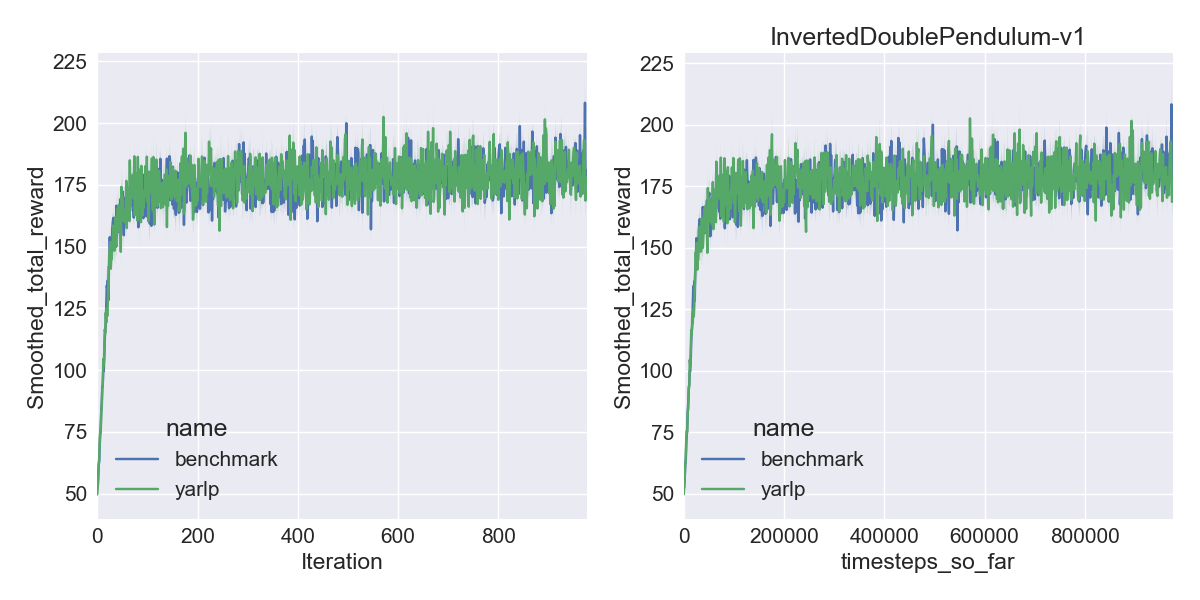
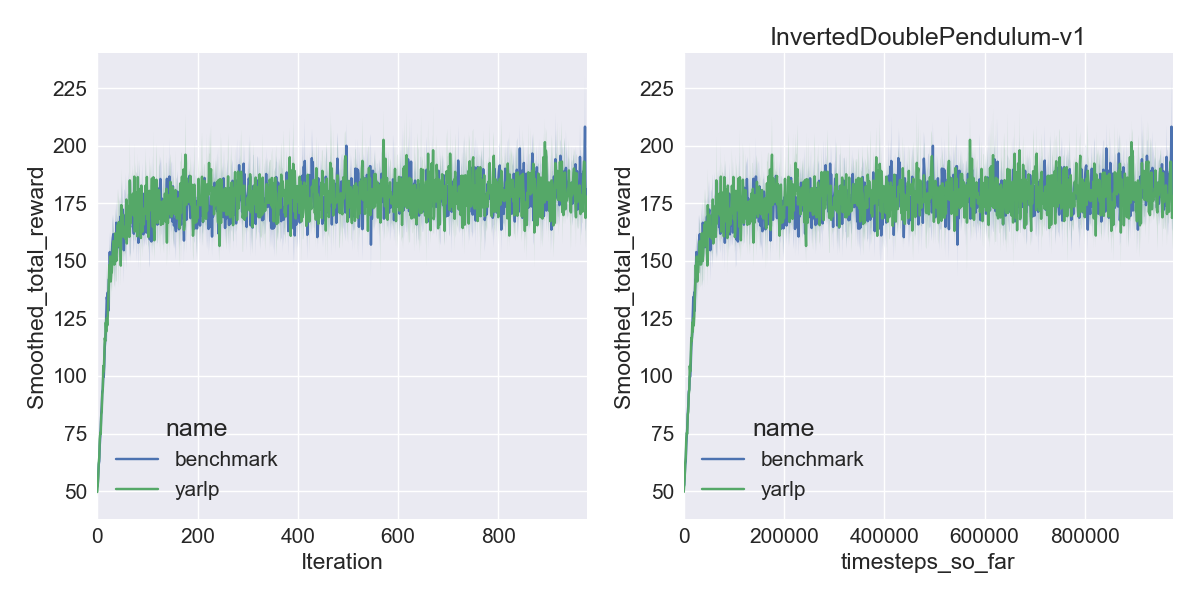
small tweaks

diff --git a/yarlp/experiment/plotting.py b/yarlp/experiment/plotting.py
@@ -5,7 +5,7 @@ import seaborn as sns
 import numpy as np
 
 
-def plot_data(data, value, time, run, condition, title='', ax=None):
+def plot_data(data, value, time, run, condition, title='', ax=None, ci=95):
     """
     Plot time series data using sns.tsplot
 
@@ -23,7 +23,7 @@ def plot_data(data, value, time, run, condition, title='', ax=None):
     sns.set(style="darkgrid", font_scale=1.5)
     plot = sns.tsplot(
         data=data, time=time, value=value, unit=run, condition=condition,
-        ax=ax)
+        ax=ax, ci=ci)
     plt.title(title)
     return plot
 

diff --git a/yarlp/experiment/job.py b/yarlp/experiment/job.py
@@ -29,8 +29,9 @@ class Job(object):
 
     def _get_env(self, job_dir):
         env_name = self._spec_dict['env']['name']
+        self._spec_dict['video'] = self._video
         env = NormalizedGymEnv(
-            env_name, self._video, job_dir, force_reset=True,
+            env_name, log_dir=job_dir, force_reset=True,
             **self._spec_dict['env'])
         if 'timestep_limit' in self._spec_dict['env']:
             env.spec.timestep_limit = self._spec_dict['env']['timestep_limit']

diff --git a/yarlp/experiment/experiment.py b/yarlp/experiment/experiment.py
@@ -117,6 +117,7 @@ class Experiment(object):
                     s['env']['name'], s['agent']['type'], r)
                 s_copy['run_name'] = run_name
                 s_copy['seed'] = r
+                s_copy['agent']['seeds'] = [r]
                 repeated_spec_list.append(s_copy)
 
         return repeated_spec_list

diff --git a/README.md b/README.md
@@ -23,7 +23,7 @@ We benchmark against Openai [`baselines`](https://github.com/openai/baselines) u
 
 ### Mujoco1M
 
-We average over 5 random seeds instead of 3 for both `baselines` and `yarlp`. More seeds probably wouldn't hurt here.
+We average over 5 random seeds instead of 3 for both `baselines` and `yarlp`. More seeds probably wouldn't hurt here, we report 95th percent confidence intervals.
 
 |   |   |   |   |
 |---|---|---|---|
